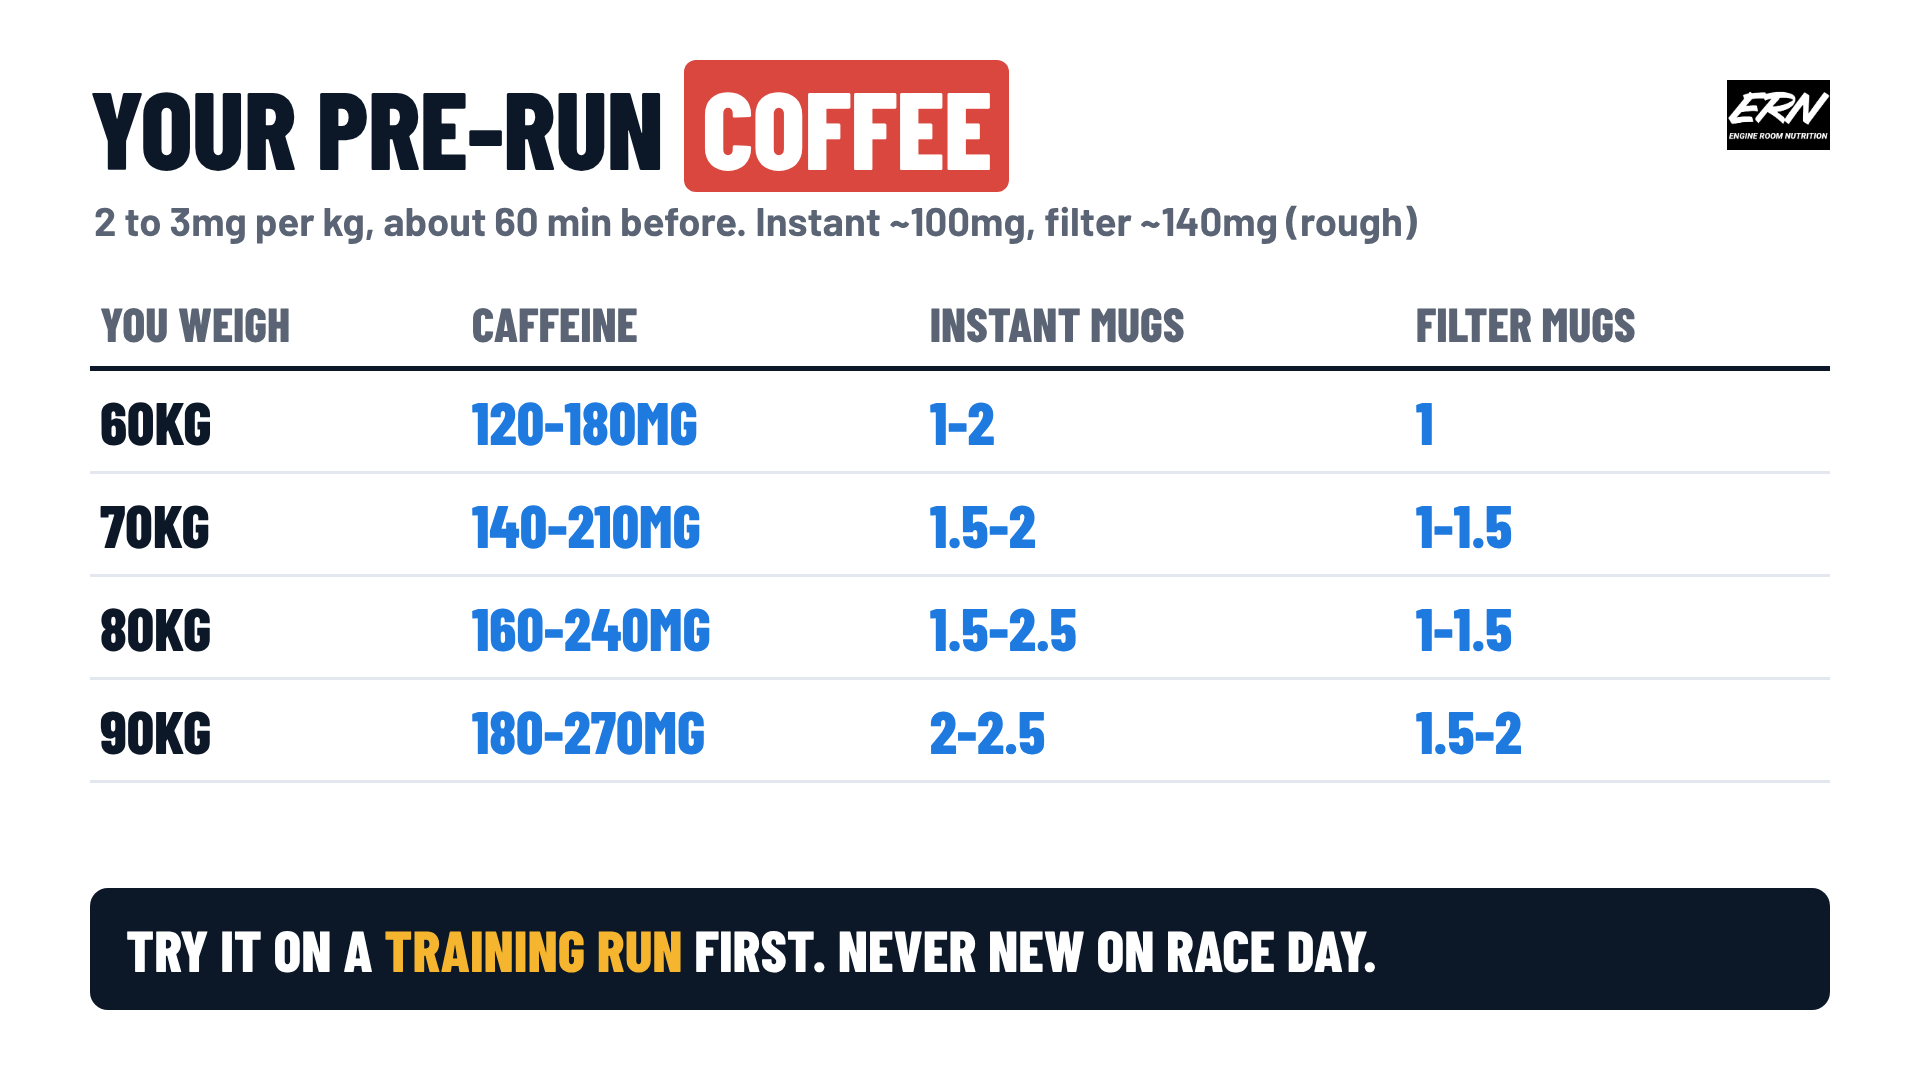
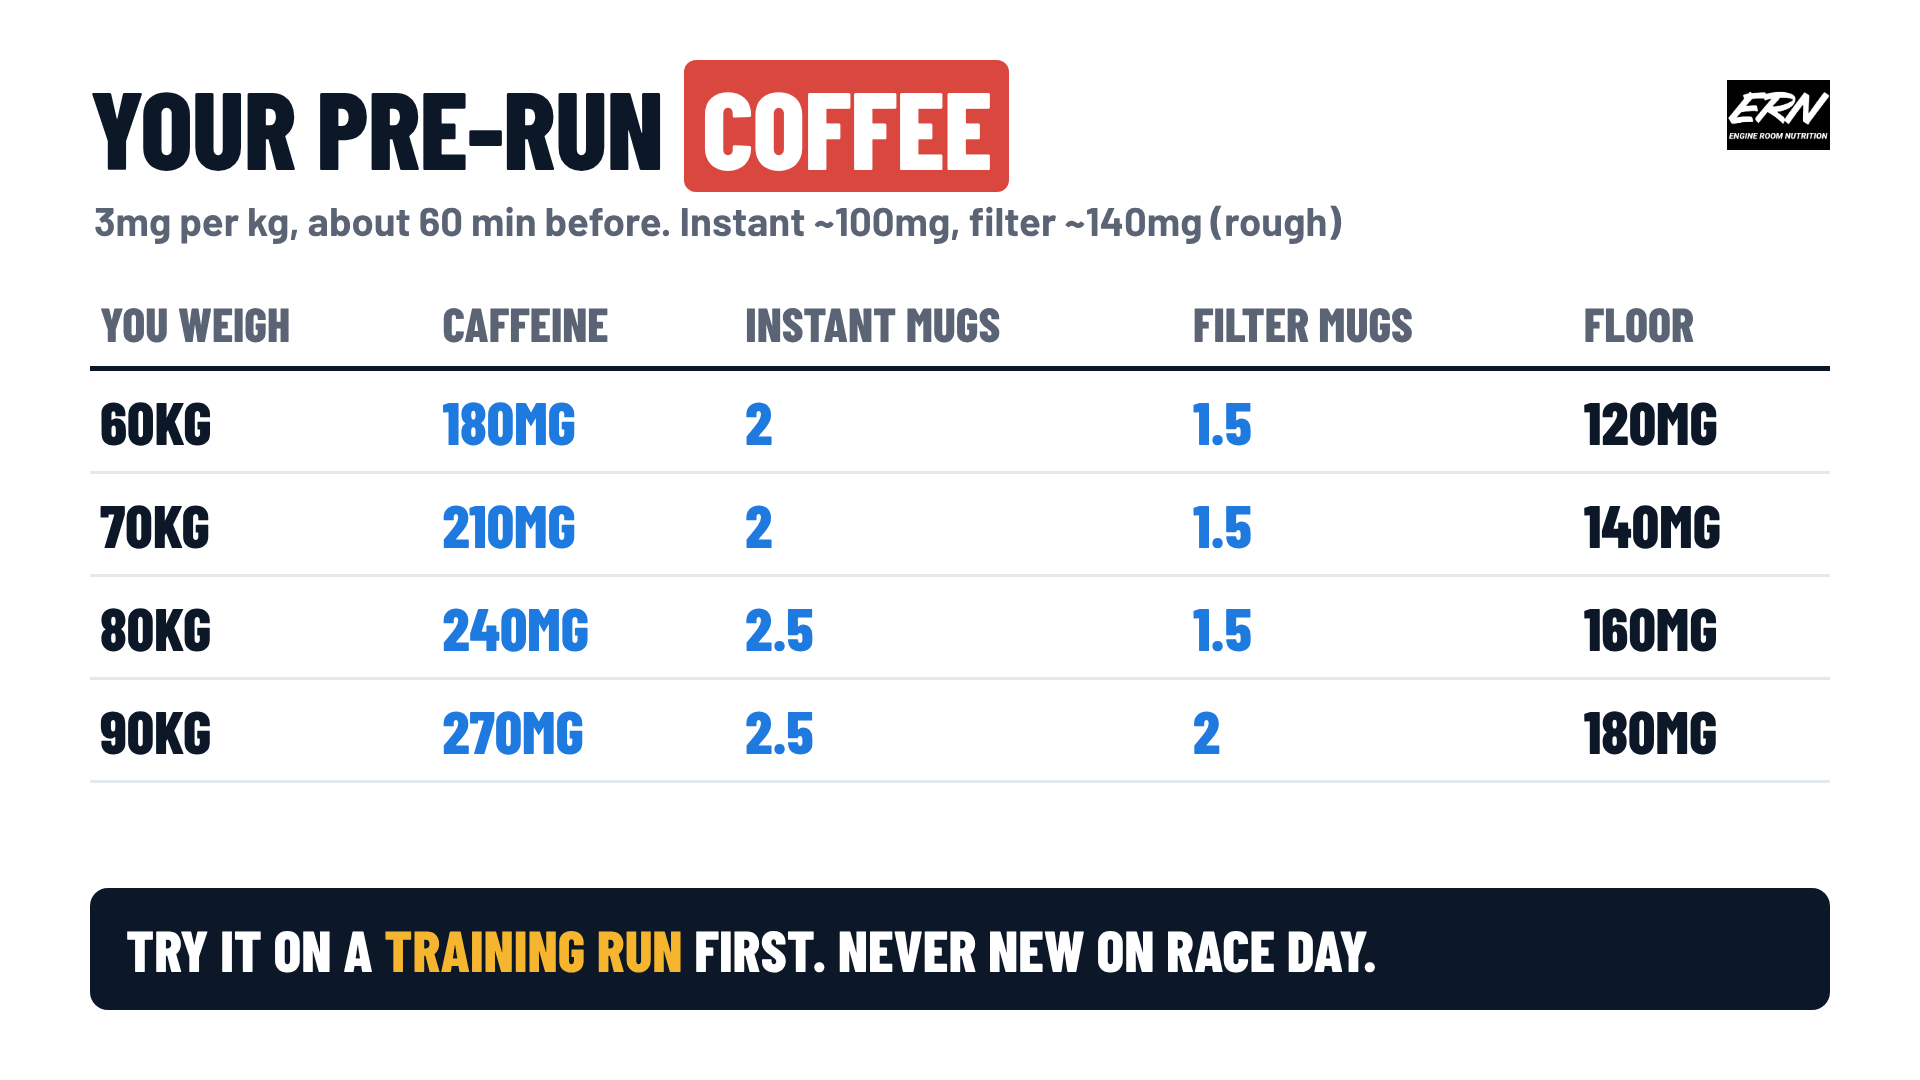
Coffee script gated (G22, G23, G29 fixed); dose card at 3 mg/kg; current state
Claude-Session: https://claude.ai/code/session_01C5bFwjsy7wubJR84HAMdDJ

diff --git a/motion/coffee/dose-card.html b/motion/coffee/dose-card.html
@@ -15,14 +15,14 @@ td.g{color:#1f7ae0}
 .logo{position:absolute;right:90px;top:80px;height:70px}
 </style></head><body>
 <h1>YOUR PRE-RUN <span>COFFEE</span></h1>
-<div class="sub">2 to 3mg per kg, about 60 min before. Instant ~100mg, filter ~140mg (rough)</div>
+<div class="sub">3mg per kg, about 60 min before. Instant ~100mg, filter ~140mg (rough)</div>
 <img class="logo" src="../brand/ern-logo.png">
 <table>
-<tr><th>YOU WEIGH</th><th>CAFFEINE</th><th>INSTANT MUGS</th><th>FILTER MUGS</th></tr>
-<tr><td>60KG</td><td class="g">120-180MG</td><td class="g">1-2</td><td class="g">1</td></tr>
-<tr><td>70KG</td><td class="g">140-210MG</td><td class="g">1.5-2</td><td class="g">1-1.5</td></tr>
-<tr><td>80KG</td><td class="g">160-240MG</td><td class="g">1.5-2.5</td><td class="g">1-1.5</td></tr>
-<tr><td>90KG</td><td class="g">180-270MG</td><td class="g">2-2.5</td><td class="g">1.5-2</td></tr>
+<tr><th>YOU WEIGH</th><th>CAFFEINE</th><th>INSTANT MUGS</th><th>FILTER MUGS</th><th>FLOOR</th></tr>
+<tr><td>60KG</td><td class="g">180MG</td><td class="g">2</td><td class="g">1.5</td><td>120MG</td></tr>
+<tr><td>70KG</td><td class="g">210MG</td><td class="g">2</td><td class="g">1.5</td><td>140MG</td></tr>
+<tr><td>80KG</td><td class="g">240MG</td><td class="g">2.5</td><td class="g">1.5</td><td>160MG</td></tr>
+<tr><td>90KG</td><td class="g">270MG</td><td class="g">2.5</td><td class="g">2</td><td>180MG</td></tr>
 </table>
 <div class="own">TRY IT ON A <b>TRAINING RUN</b> FIRST. NEVER NEW ON RACE DAY.</div>
 <script>document.fonts.ready.then(()=>document.title='ready')</script>

diff --git a/ideas/engine-room-nutrition/2026-11-21-script-coffee.md b/ideas/engine-room-nutrition/2026-11-21-script-coffee.md
@@ -1,0 +1,134 @@
+---
+type: script (gated)
+gate: v1
+brief_ok: Luke 21 Nov ("Yes write both scripts"), after the top 3; the non-marathon slot (P234), topic bank #27
+ost_final_by_luke: 21 Nov (YOU'RE WASTING YOUR / PRE-RUN COFFEE / (ONE INSTANT? HALF A DOSE), WASTING red, 3 lines)
+luke_said: 21 Nov, "Yes write both scripts", in answer to the OK on WASTING (one instant mug is under the 2 mg/kg minimum at 70 kg, but no study shows it does nothing)
+stats_ok_by_luke: 21 Nov (the 21-trial meta-analysis and the ISSN dose are the topic)
+send_rule: P235
+generated_at: 2026-11-21
+fixed_after_review: G22 (two doses: 'a filter gets most of us close' undercut WASTING; now one dose, 3 mg/kg, '2 mugs of instant, or a filter and a half' at 70kg, and 3 mg/kg on every card and caption row with 2 mg/kg as the floor only; 'not in the final sprint' went past FACTS, now 'doesn't change how the very end feels'; 'some runners feel it straight away' cut; the GP line cut from the caption, P223), G23 ('check the cup' can't be done, cafés don't print caffeine: now 'count the mugs you make at home'), G29 (line one's 'you'd think..., but' shape from 3:59: now opens on the mug; the repeat line copied 3:59's 'Your legs..., but' shape: now 'The pace stays the same, but it costs you less'; the send line was the no-gel template: now 'If your Saturday group can't start without a coffee, send them this before their next long run')
+teleprompter: 2026-11-21-teleprompter-coffee.txt
+basis: FACTS "Caffeine before a run" (ISSN 2021: 3 to 6 mg/kg, minimum maybe 2, about 60 minutes before, about 9 mg/kg more side effects and not needed, big differences between people; Doherty and Smith 2005: 21 studies, perceived exertion 5.6% lower than placebo, no change at the very end; mugs about 100 mg instant, about 140 mg filter, approximate; café coffees vary)
+format: Instagram trial reel from ERN + ERN TikTok (Lane A, non-marathon, P234)
+---
+
+# YOU'RE WASTING YOUR / PRE-RUN COFFEE / (ONE INSTANT? HALF A DOSE)
+
+## Gate fields
+- OST: YOU'RE WASTING YOUR / PRE-RUN COFFEE / (ONE INSTANT? HALF A DOSE)
+- OST score: 8/9 (the cold ost-reviewer, 21 Nov, the rewrite of T12: misses only the non-runner test)
+- Markers: YOUR DOSE / WHAT IT DOES / WHEN / HOW MUCH IS TOO MUCH
+- Gap phrase: One instant coffee before your run
+- Repeat line: The pace stays the same, but it costs you less.
+- Gap held by: "here's the dose for your weight, and when to drink it"
+- Gap closed by: HOW MUCH IS TOO MUCH
+- Turn: "about half the dose the studies used, if you weigh 70kg"
+- Keep: YOUR PRE-RUN COFFEE (motion/coffee/coffee-dose-card-16x9.png), on screen from the save line in stage 1 to the end, 3 mg per kg, about 60 minutes before, mugs approximate (instant about 100 mg, filter about 140 mg), the 2 mg/kg floor in the last column: 60kg 180 mg, 2 instants, 1.5 filters, floor 120; 70kg 210 mg, 2 instants, 1.5 filters, floor 140; 80kg 240 mg, 2.5 instants, 1.5 filters, floor 160; 90kg 270 mg, 2.5 instants, 2 filters, floor 180
+- Frame one: Luke alone, eyes on the lens, the white title card full width in the top band, WASTING in red; nothing else until stage 1
+- Frame one words: title only
+- Mockup: ideas/engine-room-nutrition/mockups/2026-11-21-coffee-frame-one.png
+- Overlay: motion/coffee/coffee-overlay-9x16.png (card motion/coffee/coffee-title-16x9.png)
+- Layer title: your pre-run coffee is wasted because one instant is about half the dose
+- Layer picture: none (Luke and the title)
+- Layer line one: new to the title (row 29): at the right dose the same pace feels about 5% easier
+- Worked example goal: none (P234, not a marathon reel: a 70kg runner, with 60, 80 and 90kg on the card and in the caption)
+- Forecast: IG trial at 24h, 1,000 to 4,000 views, skip 30% to 45%. Base: oranges 2,468 (about 40h), 33.4%; the wall repost 3,537 (a day), 33.3%; 16 results 447, 51.1%. The first non-marathon trial, so the range is wide
+
+## The gap
+Waiting for: their own dose, and when to drink it. Line one names the habit
+(one instant before the run) and sets it aside (about half the dose); the aha
+is stage 1's first numbers (210 needed, 100 in the mug). WHAT IT DOES says what
+the right dose buys; WHEN times it; the rehook ("so is more always better?")
+reopens it; HOW MUCH IS TOO MUCH shuts it.
+
+## Line-one gap test (P186)
+| Test | Answer |
+|---|---|
+| Line one alone: what does a stranger ask? | "What's the full dose for me, and when do I drink it?" |
+| One specific question? | Yes |
+| Can they guess it? | "Drink more coffee", partly; the dose by weight, the 5.6%, the 60 minutes and the ceiling, no |
+| About them or a stranger? | Them (your run, your weight) |
+| Which stage answers it? | YOUR DOSE to HOW MUCH IS TOO MUCH |
+| Anything earlier give it away? | No |
+
+## The 4 questions (P194)
+| Question | Answer |
+|---|---|
+| A moment they recognise? | The one mug before a Saturday parkrun or long run; halfway, when the pace starts to burn |
+| Why it matters? | The same pace can feel about 5% easier |
+| What changed? | The studies dose it by weight; one instant is about half for 70kg |
+| Something to do tonight? | Screenshot the card; try the dose about 60 minutes before the next training run |
+
+## Stack
+Line one: the habit and the half dose; the 5% and the promise. 44 words before stage 1 (P218). Learnings applied (P235): the myth set aside in the hook, the aha as stage 1's first numbers, the card on screen from about 0:25, the send line at the end only.
+
+## Script
+
+"One instant coffee before your run is about half the dose the studies used, if you weigh 70kg. At the full dose the same pace feels about 5% easier. So here's the dose for your weight, and when to drink it."
+
+**[YOUR DOSE]**
+
+"The studies dose caffeine by weight, at about 3 milligrams for every kilo you weigh. So at 70kg you need about 210 milligrams. That's 2 mugs of instant, or a filter and a half. A mug of instant has about 100, but a filter has about 140. Save this and screenshot the card, so you've got the dose for your weight."
+
+**[WHAT IT DOES]**
+
+"Across 21 trials, caffeine made the same effort feel about 5.6% easier than a dummy pill. It won't give you new legs, but halfway through your parkrun the pace burns a bit less. It doesn't change how the very end feels. So it's the middle of the run where you'll notice it most. The pace stays the same, but it costs you less."
+
+**[WHEN]**
+
+"Have it about 60 minutes before you start, because that's how the studies timed it. So for a 9am parkrun, your coffee goes in at 8 with breakfast. That's an hour before the start, not in the car on the way there."
+
+"So is more always better?"
+
+**[HOW MUCH IS TOO MUCH]**
+
+"No, because doses around 9 milligrams a kilo bring more side effects without the extra boost. Café cups don't print the caffeine, so on run days count the mugs you make at home. Try your dose on a training run first, never on race day, because the trials found big differences between people."
+
+"If your Saturday group can't start without a coffee, send them this before their next long run."
+
+## Caption
+One instant coffee before your run is about half the dose the studies use for a 70kg runner. The sports nutrition guidance (ISSN position stand, 2021) puts the dose at 3 to 6 mg of caffeine per kg of body weight, usually taken about 60 minutes before, with the minimum maybe as low as 2 mg/kg. Across 21 studies, caffeine made the same effort feel about 5.6% easier than a placebo (Doherty and Smith, 2005), though the rating at the very end of an all-out effort didn't change.
+
+Your dose at 3 mg per kg, about 60 minutes before (mugs are rough: instant about 100 mg, filter about 140 mg; café coffees vary and don't print it). 60kg: 180 mg, about 2 instants or 1.5 filters. 70kg: 210 mg, about 2 instants or 1.5 filters. 80kg: 240 mg, about 2.5 instants or 1.5 filters. 90kg: 270 mg, about 2.5 instants or 2 filters. The floor is about 2 mg per kg (120, 140, 160 and 180 mg). Around 9 mg/kg brings more side effects and no extra benefit. Try it on a training run first, never on race day; people respond very differently.
+
+## Pinned comment
+How many coffees before your Saturday run, and when?
+
+Want the dose card for your weight? Email us through the link in the bio and we'll send it free.
+
+## Facts check
+| Claim | Source | Status |
+|---|---|---|
+| The studies dose about 3 mg per kg; at 70kg about 210 mg | FACTS: ISSN 2021, 3 to 6 mg/kg; 70 x 3 = 210 | Pass |
+| A mug of instant has about 100 mg; a filter mug about 140 | FACTS (NHS figures as reported; approximate) | Pass ("about"); check the live NHS page before posting |
+| One instant is about half the dose for 70kg | 100 of 210 mg (FACTS worked doses) | Pass (said as 70kg and "about") |
+| Across 21 trials, the same effort felt about 5.6% easier than a placebo | FACTS: Doherty and Smith 2005 (21 studies; "trials" = the studies' placebo trials) | Pass |
+| It doesn't change how the very end feels | FACTS: no change in the rating at the end of exhausting exercise | Pass |
+| About 60 minutes before, as the studies timed it | FACTS: ISSN, usually about 60 minutes before | Pass (no timing penalty claimed) |
+| At 70kg, 210 mg is 2 mugs of instant, or a filter and a half | FACTS worked doses: 2 x 100 = 200; 1.5 x 140 = 210 (approximate mugs) | Pass ("about") |
+| Around 9 mg/kg brings more side effects without the extra boost | FACTS: ISSN | Pass |
+| Café cups don't print the caffeine; count the mugs you make at home | Café cups in Ireland and the UK carry no caffeine figure (Which? 2023 measured them because they vary) | Pass |
+| Big differences between people | FACTS: ISSN | Pass |
+| Try it on a training run first, never on race day | Our coaching (the stomach reel rule) | Pass (coaching) |
+
+## Humanizer (P169, P202)
+| Check | Result |
+|---|---|
+| check.py | See the gate run |
+| Orders, not suggestions (P203) | save, screenshot, have, check, try, send, follow |
+| Medical tent (P223), template lines (P186) | None |
+
+## Captivating (P206, P207, P228, P235)
+- The myth in the title and line one: one coffee is the boost; line one opens on the mug and the half dose.
+- The aha first in stage 1: 210 needed, about 100 in the mug.
+- The runner's own picture: the 9am parkrun, the coffee at 8.
+- The honest cost: it doesn't give you new legs; nothing in the last sprint.
+- Repeat line: "The pace stays the same, but it costs you less." (G33)
+- Something to keep: the dose card for 60, 70, 80 and 90kg (P224), on screen from about 0:25.
+- Send line at the end only, aimed at the Saturday group that can't start without a coffee.
+
+## Known risks
+- **The first non-marathon reel (P234):** judged against the trial base rates, not the marathon reels.
+- **The 5.6% is from exercise in general, not only running:** said as "21 trials", never "21 running studies".
+- **Mug figures are rough:** "about" every time; the caption says café coffees vary.

diff --git a/CLAUDE.md b/CLAUDE.md
@@ -221,6 +221,8 @@ a new cause becomes a new row in the same turn.**
 
 **20 Nov, TED-Ed cutaway plan for the 3:59 reel (Luke: plan first, no visuals yet):** `ideas/engine-room-nutrition/2026-11-20-teded-visual-plan-3-59.md`. A/B of one take as two IG trial reels: A cuts to full-screen (9:16) cream-paper animation for the bunching, the last 2.2K and your next run (about 48 s, 5 or 6 shots each); B is the gated band-only version. Luke stays on camera for the hook, every ask and the 40K instruction (the clock card animated in the band). Keep A if watch time is 3 s+ longer and retention at 0:45 higher with saves no lower. Waiting on Luke: yes to the A/B, full screen vs band, the recorded audio. Storyboard stills come before any animation. **Luke chose full screen with his audio underneath and killed the stick figures (P229): new rig and 4 style stills in `motion/three-59/teded/` (cast, the 2:59 vs 3:00 columns, the 3:57:40 gantry, the 14:52 watch); later: main runner fair-skinned, ERN logo on every frame, and **4 full-screen cutaways rendered** (`motion/three-59/teded/out/cutaway-[1-4]-*.mp4`, 16 to 21 s each, timed to the script; where each goes: `motion/three-59/teded/README.md`).**
 
+**21 Nov, two reels gated (Luke: "Yes write both scripts"):** (1) **'I DON'T NEED GELS' / KILLS 4-HOUR MARATHONS / (THE FIRST 2 HOURS LIE)** (KILLS red, 8/9), ERN trial reel (G32), `2026-11-21-script-no-gel.md`, hook 44, script 296, one review, G22 G29 fixed; card `motion/no-gel/no-gel-clock-16x9.png`. (2) The non-marathon slot (P234): **YOU'RE WASTING YOUR / PRE-RUN COFFEE / (ONE INSTANT? HALF A DOSE)** (WASTING red, 8/9), ERN trial, `2026-11-21-script-coffee.md`, hook 41, script 283, one review, G22 G23 G29 fixed; card `motion/coffee/coffee-dose-card-16x9.png`; FACTS "Caffeine before a run". P233 (no "only we could post it" test, scorecard out of 9, bar 8), P234 (one non-marathon topic in every set), P235 (send line at the end, card by 0:30; G19).
+
 **21 Nov, 3:59 at ~15h + polls (`ideas/2026-11-21-3-59-review.md`):** 6,186 views (3,947 IG, 2,239 FB), skip 37.9% Higher, **24s**, saves 0.5%, shares 0.2%, 1 follow, 0 comments; above the typical line. The send line at ~0:44 lost almost half of who was left (32% to 18%; second time an ask in the body made a step) and the clock card came after it. Proposal for Luke: send line to the end (P204 change). Polls: ERN no gel 82% (9 of 11), personal peak at 30+ 56%. **Today: the no-gel reel as an ERN trial** (G32: the fourth hour was 6 days ago); titles `2026-11-21-titles-no-gel.md`. **Topic bank (P232):** `2026-11-20-titles-30-from-the-greats.md`, read first on every title request, TED-Ed shapes at the front.
 
 **21 Nov reel gated (Lane A, first evergreen trial): WHY SO MANY / MARATHONERS FINISH / AT 3:59** (3:59 red, title only on screen; Luke chose it over the cold reviewer's 3/10, `luke_override: G12`), IG trial from ERN + TikTok, `ideas/engine-room-nutrition/2026-11-21-script-3-59.md`; Allen, Dechow, Pope and Wu 2017 (9.5M finishes, 51.4% more in the minute under 3:00, the speed-up from 40K); hook 44, script 286; one review, G21 G22 G29 fixed (no "felt empty" claims: the study measured times, not feelings); check.py PASS. Keep: the last 4K clock card (`motion/three-59/three-59-clock-card-16x9.png`, 38 to 41K for sub-3 to sub-4:30). **Hook rewritten to Luke's shape (P228, interest beats need off season):** "You'd think so many marathoners finish at 3:59 because they want sub-4, but there's a deeper reason", then 4:00 as the line between winning and losing (the paper's reference point, never "loss aversion"), stage 1 opens on the 50% fact and busts the pacer myth. The YOU WEREN'T EMPTY test is dropped (a race-moment title with no race coming); P227 (a title test changes the title only) stays as the rule for future tests.

diff --git a/gate/reviews/2026-11-21-script-coffee.md b/gate/reviews/2026-11-21-script-coffee.md
@@ -1,0 +1,13 @@
+# Gate review: 2026-11-21-script-coffee.md
+Script hash: 9447b21077a8f781
+Reviewed: 2026-11-21, independent (gate-reviewer), one pass
+Mockup: ideas/engine-room-nutrition/mockups/2026-11-21-coffee-frame-one.png
+
+| Test | Verdict | The line it rests on (quoted) | Why, and the exact fix |
+|---|---|---|---|
+| G2 | PASS | "YOU'RE WASTING YOUR / PRE-RUN COFFEE / (ONE INSTANT? HALF A DOSE)" (mockup: title only, Luke alone) | At phone size the only words before 0:03 are the title in the top band, full width, black on white with WASTING in red, and nothing else is on screen ("LUKE · eyes on the lens" is a mockup placeholder, so make sure it isn't in the real overlay, and the mug the Frame one field names isn't drawn but would be allowed as a picture with no words). |
+| G12 | PASS | "(ONE INSTANT? HALF A DOSE)" / "so here's yours by body weight" | The title hints at "have more", but someone who skips still doesn't know their dose by weight, the 60 minutes or the ceiling, and HALF reads as the habit falling short, not as our failure. |
+| G21 | PASS | "Save this and screenshot the card, so you've got the dose for your weight." / "for a 9am parkrun, that's your coffee at 8 with breakfast" | The 4-weight card (mg, instants, filters) is too much to hold after one watch, the full table is in the caption, P234 allows a body weight for the worked example, and the timing names the meal and the clock time. |
+| G22 | FAIL | "So at 70kg you need about 210 milligrams" vs "A filter mug has more, about 140, so 2 instants or a filter gets most of us close" and the caption's "60kg: 120 to 180 mg, about 1 to 2 instants"; also "It works while you're running, not in the final sprint" and "Some runners feel it straight away" | The script calls 3 mg/kg the dose, then calls a filter "close" (2 mg/kg at 70kg, and about half the dose at 80 to 90kg, the same shortfall the title calls WASTING) and the card and caption list "1 instant" for 60kg, so the advice ends up doing what the title says to stop (P201); on top of that, FACTS only says the rating at the very end of exhausting exercise didn't change (not that there's no help in a final sprint), nothing in FACTS backs "straight away", and the caption's "Pregnant ... GP" line is under FACTS "Not used" (P223). Fix: say "so at 70kg that's 2 instants, or a filter and a half", put 3 mg/kg on every card and caption row with 2 mg/kg as the floor only (60kg about 2 instants), change the sprint sentence to "It doesn't change how the very end feels, because by then everyone's flat out", change "straight away" to "a lot", and cut the GP line unless Luke OKs it. |
+| G23 | FAIL | "Café coffees vary from chain to chain, so check the cup before you count it." | Café cups in Ireland and the UK don't print caffeine, so "check the cup" is a step nobody can do and a new worry; fix: "Café coffees vary from chain to chain, so on run days count the mugs you make at home." |
+| G29 | FAIL | "you'd think that's your boost. But..." / "Your legs don't change, but the effort does." / "Send this to the friend who can't run without a coffee, and follow for the next one." | Line one reuses the 3:59 hook's "You'd think ..., but" shape, the repeat line copies 3:59's "Your legs said empty, but the clock said go.", and the send line is the no-gel template word for word ("Send this to the friend who swears they don't need gels, and follow for the next one."); fix: open on the mug ("One instant coffee before your run is about half the dose the studies used for a 70kg runner."), give the repeat line a shape that doesn't start with "Your legs", and write a send line in a new form with no "and follow for the next one" (e.g. "Send this to whoever's in the coffee queue before your parkrun."). |
